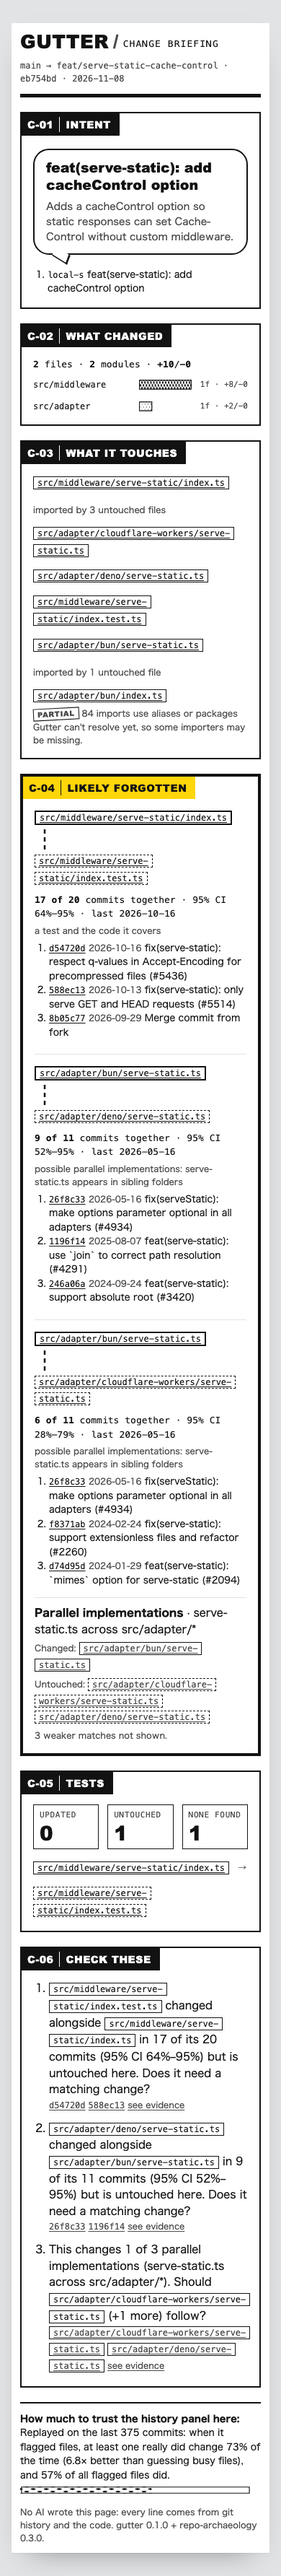
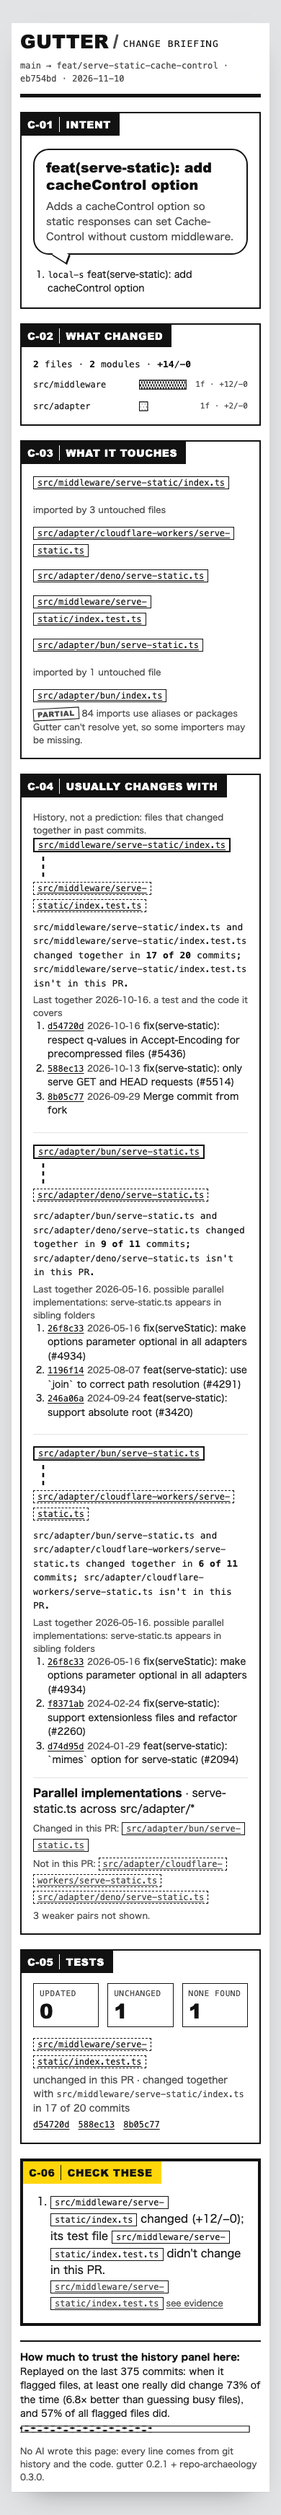
docs(example): regenerate the hono example under the new defaults; GU-29 screenshots
The illustrative edit grows from +10 to +14 lines so serve-static/index.ts
passes the minChurnForTestQuestion gate (10) and the page is brief: the test
row and "Usually changes with" context are visible. Same pinned SHA and
repo-archaeology 0.3.0, so the history (17 of 20, 9 of 11, 6 of 11) is unchanged.
docs/images/gu29/: quiet/brief/full pages at 1280 and 390 px, and local
renders of the Markdown comment.

Changed region(s): [[0.0615, 0.0, 0.9231, 0.9917]]

diff --git a/docs/example/gutter.html b/docs/example/gutter.html
@@ -77,8 +77,8 @@ a:focus-visible,.panel:focus-visible{outline:var(--f-stroke) solid var(--f-marke
 .panel{grid-column:span 12;position:relative;background:var(--f-panel);border:var(--f-stroke) solid var(--f-rule);padding:0 16px 16px;min-width:0}
 .page.quiet .panel{grid-column:span 12}
 @media (min-width:860px){
-.page:not(.quiet){grid-template-areas:"intent intent intent intent intent intent intent changed changed changed changed changed" "touches touches touches touches touches forgotten forgotten forgotten forgotten forgotten forgotten forgotten" "tests tests tests tests tests forgotten forgotten forgotten forgotten forgotten forgotten forgotten" "checks checks checks checks checks checks checks checks checks checks checks checks"}
-.area-intent{grid-area:intent}.area-changed{grid-area:changed}.area-touches{grid-area:touches}.area-forgotten{grid-area:forgotten}.area-tests{grid-area:tests}.area-checks{grid-area:checks}
+.page:not(.quiet){grid-template-areas:"intent intent intent intent intent intent intent changed changed changed changed changed" "touches touches touches touches touches history history history history history history history" "tests tests tests tests tests history history history history history history history" "checks checks checks checks checks checks checks checks checks checks checks checks"}
+.area-intent{grid-area:intent}.area-changed{grid-area:changed}.area-touches{grid-area:touches}.area-history{grid-area:history}.area-tests{grid-area:tests}.area-checks{grid-area:checks}
 .page.quiet .area-intent{grid-column:span 7}.page.quiet .area-changed{grid-column:span 5}
 }
 .cap{display:inline-flex;align-items:center;margin:0 0 14px -16px;padding:5px 12px 5px 0;background:var(--f-ink);color:var(--f-sheet);font-family:var(--font-f-display);font-size:14px;font-weight:400;letter-spacing:.04em;text-transform:uppercase}
@@ -107,6 +107,9 @@ a:focus-visible,.panel:focus-visible{outline:var(--f-stroke) solid var(--f-marke
 .deps{list-style:none;margin:0;padding:0;display:grid;gap:var(--f-gutter-pair)}
 .deps li{display:flex;flex-wrap:wrap;align-items:baseline;gap:var(--f-gutter-pair)}
 .importers{display:inline-flex;flex-wrap:wrap;gap:var(--f-gutter-pair)}
+.ref{font-family:var(--font-f-mono);font-size:12px;overflow-wrap:anywhere}
+.deps .test-row{flex-direction:column;align-items:flex-start;gap:0}
+.fact{font-size:13px;color:var(--f-ink-2);margin:4px 0}
 .stamp{font-family:var(--font-f-display);font-size:10px;letter-spacing:.06em;text-transform:uppercase;border:1.5px solid var(--f-rule);padding:0 5px;transform:rotate(-3deg);display:inline-block}
 .small{font-size:12px;color:var(--f-ink-2);margin:4px 0 0}
 .quiet-line{margin:0;color:var(--f-ink-2)}
@@ -145,7 +148,7 @@ a:focus-visible,.panel:focus-visible{outline:var(--f-stroke) solid var(--f-marke
 <article class="sheet">
   <header class="masthead">
     <p class="wordmark">GUTTER<span class="slash">/</span><span class="kicker">change briefing</span></p>
-    <p class="issue">main → feat/serve-static-cache-control · eb754bd · 2026-11-08</p>
+    <p class="issue">main → feat/serve-static-cache-control · eb754bd · 2026-11-10</p>
   </header>
   
   <div class="page">
@@ -158,11 +161,11 @@ a:focus-visible,.panel:focus-visible{outline:var(--f-stroke) solid var(--f-marke
 <section class="panel area-changed" data-cut="C-02" aria-labelledby="p2">
   <h2 id="p2" class="cap"><span class="num">C-02</span> What changed</h2>
   
-  <p class="stat"><b>2</b> files · <b>2</b> modules · <b>+10</b>/<b>−0</b></p>
+  <p class="stat"><b>2</b> files · <b>2</b> modules · <b>+14</b>/<b>−0</b></p>
   <ul class="modules" aria-label="Churn by module, darker tone means more lines changed"><li><span class="mod">src/middleware</span>
       <svg class="bar" viewBox="0 0 100 10" preserveAspectRatio="none" aria-hidden="true"><rect x="0" y="0" width="100" height="10" fill="url(#tone-3)"/><rect x="0.6" y="0.6" width="98.8" height="8.8" class="bar-ink"/></svg>
-      <span class="num-sm">1f · +8/−0</span></li><li><span class="mod">src/adapter</span>
-      <svg class="bar" viewBox="0 0 100 10" preserveAspectRatio="none" aria-hidden="true"><rect x="0" y="0" width="25" height="10" fill="url(#tone-1)"/><rect x="0.6" y="0.6" width="23.8" height="8.8" class="bar-ink"/></svg>
+      <span class="num-sm">1f · +12/−0</span></li><li><span class="mod">src/adapter</span>
+      <svg class="bar" viewBox="0 0 100 10" preserveAspectRatio="none" aria-hidden="true"><rect x="0" y="0" width="17" height="10" fill="url(#tone-1)"/><rect x="0.6" y="0.6" width="15.8" height="8.8" class="bar-ink"/></svg>
       <span class="num-sm">1f · +2/−0</span></li></ul>
   
 </section>
@@ -174,57 +177,57 @@ a:focus-visible,.panel:focus-visible{outline:var(--f-stroke) solid var(--f-marke
         <span class="small">imported by 1 untouched file</span>
         <span class="importers"><a href="https://github.com/honojs/hono/blob/eb754bd5ef22c63f1634a4c374a86be086f85710/src/adapter/bun/index.ts"><code class="path">src/adapter/bun/index.ts</code></a></span></li></ul><p class="small"><span class="stamp">partial</span> 84 imports use aliases or packages Gutter can&#39;t resolve yet, so some importers may be missing.</p>
 </section>
-<section class="panel area-forgotten hero" data-cut="C-04" aria-labelledby="p4">
-  <h2 id="p4" class="cap marker"><span class="num">C-04</span> Likely forgotten</h2>
-  <ul class="wires"><li class="wire-row" id="forgotten:0">
+<section class="panel area-history" data-cut="C-04" aria-labelledby="p4">
+  <h2 id="p4" class="cap"><span class="num">C-04</span> Usually changes with</h2>
+  <p class="small">History, not a prediction: files that changed together in past commits.</p><ul class="wires"><li class="wire-row" id="history-0">
       <div class="wire">
         <a href="https://github.com/honojs/hono/blob/eb754bd5ef22c63f1634a4c374a86be086f85710/src/middleware/serve-static/index.ts"><code class="path solid">src/middleware/serve-static/index.ts</code></a>
         <svg class="ghost" viewBox="0 0 100 12" preserveAspectRatio="none" aria-hidden="true"><line x1="0" y1="6" x2="100" y2="6"/></svg>
         <a href="https://github.com/honojs/hono/blob/eb754bd5ef22c63f1634a4c374a86be086f85710/src/middleware/serve-static/index.test.ts"><code class="path dashed">src/middleware/serve-static/index.test.ts</code></a>
       </div>
-      <p class="evidence-line"><b>17 of 20</b> commits together · 95% CI 64%–95% · last 2026-10-16</p>
-      <p class="small why">a test and the code it covers</p>
+      <p class="evidence-line"><code class="ref">src/middleware/serve-static/index.ts</code> and <code class="ref">src/middleware/serve-static/index.test.ts</code> changed together in <b>17 of 20</b> commits; <code class="ref">src/middleware/serve-static/index.test.ts</code> isn't in this PR.</p>
+      <p class="small">Last together 2026-10-16. a test and the code it covers</p>
       <ol class="receipts" aria-label="Commits where these files changed together"><li><a class="sha" href="https://github.com/honojs/hono/commit/d54720da80134a180f5fe2dd98a7676cfc8f08b4">d54720d</a> <span class="small">2026-10-16</span> fix(serve-static): respect q-values in Accept-Encoding for precompressed files (#5436)</li><li><a class="sha" href="https://github.com/honojs/hono/commit/588ec13fa68ea44fed1b5e1b503341db2bf09d70">588ec13</a> <span class="small">2026-10-13</span> fix(serve-static): only serve GET and HEAD requests (#5514)</li><li><a class="sha" href="https://github.com/honojs/hono/commit/8b05c774ef1555c70f5ba5e2991b7e77cc3635cc">8b05c77</a> <span class="small">2026-09-29</span> Merge commit from fork</li></ol>
-    </li><li class="wire-row" id="forgotten:1">
+    </li><li class="wire-row" id="history-1">
       <div class="wire">
         <a href="https://github.com/honojs/hono/blob/eb754bd5ef22c63f1634a4c374a86be086f85710/src/adapter/bun/serve-static.ts"><code class="path solid">src/adapter/bun/serve-static.ts</code></a>
         <svg class="ghost" viewBox="0 0 100 12" preserveAspectRatio="none" aria-hidden="true"><line x1="0" y1="6" x2="100" y2="6"/></svg>
         <a href="https://github.com/honojs/hono/blob/eb754bd5ef22c63f1634a4c374a86be086f85710/src/adapter/deno/serve-static.ts"><code class="path dashed">src/adapter/deno/serve-static.ts</code></a>
       </div>
-      <p class="evidence-line"><b>9 of 11</b> commits together · 95% CI 52%–95% · last 2026-05-16</p>
-      <p class="small why">possible parallel implementations: serve-static.ts appears in sibling folders</p>
+      <p class="evidence-line"><code class="ref">src/adapter/bun/serve-static.ts</code> and <code class="ref">src/adapter/deno/serve-static.ts</code> changed together in <b>9 of 11</b> commits; <code class="ref">src/adapter/deno/serve-static.ts</code> isn't in this PR.</p>
+      <p class="small">Last together 2026-05-16. possible parallel implementations: serve-static.ts appears in sibling folders</p>
       <ol class="receipts" aria-label="Commits where these files changed together"><li><a class="sha" href="https://github.com/honojs/hono/commit/26f8c33f23e6151873d165107f2dbcadf1204d15">26f8c33</a> <span class="small">2026-05-16</span> fix(serveStatic): make options parameter optional in all adapters (#4934)</li><li><a class="sha" href="https://github.com/honojs/hono/commit/1196f14b94e589e2ac44fa7f1c8785d70c1cf83e">1196f14</a> <span class="small">2025-08-07</span> feat(serve-static): use `join` to correct path resolution (#4291)</li><li><a class="sha" href="https://github.com/honojs/hono/commit/246a06aa1d35aa206dcf11186b3aa90badb2de72">246a06a</a> <span class="small">2024-09-24</span> feat(serve-static): support absolute root (#3420)</li></ol>
-    </li><li class="wire-row" id="forgotten:2">
+    </li><li class="wire-row" id="history-2">
       <div class="wire">
         <a href="https://github.com/honojs/hono/blob/eb754bd5ef22c63f1634a4c374a86be086f85710/src/adapter/bun/serve-static.ts"><code class="path solid">src/adapter/bun/serve-static.ts</code></a>
         <svg class="ghost" viewBox="0 0 100 12" preserveAspectRatio="none" aria-hidden="true"><line x1="0" y1="6" x2="100" y2="6"/></svg>
         <a href="https://github.com/honojs/hono/blob/eb754bd5ef22c63f1634a4c374a86be086f85710/src/adapter/cloudflare-workers/serve-static.ts"><code class="path dashed">src/adapter/cloudflare-workers/serve-static.ts</code></a>
       </div>
-      <p class="evidence-line"><b>6 of 11</b> commits together · 95% CI 28%–79% · last 2026-05-16</p>
-      <p class="small why">possible parallel implementations: serve-static.ts appears in sibling folders</p>
+      <p class="evidence-line"><code class="ref">src/adapter/bun/serve-static.ts</code> and <code class="ref">src/adapter/cloudflare-workers/serve-static.ts</code> changed together in <b>6 of 11</b> commits; <code class="ref">src/adapter/cloudflare-workers/serve-static.ts</code> isn't in this PR.</p>
+      <p class="small">Last together 2026-05-16. possible parallel implementations: serve-static.ts appears in sibling folders</p>
       <ol class="receipts" aria-label="Commits where these files changed together"><li><a class="sha" href="https://github.com/honojs/hono/commit/26f8c33f23e6151873d165107f2dbcadf1204d15">26f8c33</a> <span class="small">2026-05-16</span> fix(serveStatic): make options parameter optional in all adapters (#4934)</li><li><a class="sha" href="https://github.com/honojs/hono/commit/f8371ab356f79fcf762c66aa372448a8018bcfc7">f8371ab</a> <span class="small">2024-02-24</span> fix(serve-static): support extensionless files and refactor (#2260)</li><li><a class="sha" href="https://github.com/honojs/hono/commit/d74d95d11c8d06ff7588a3a2e899e3843c4a7d1e">d74d95d</a> <span class="small">2024-01-29</span> feat(serve-static): `mimes` option for serve-static (#2094)</li></ol>
     </li></ul><div class="family" id="family:0"><p><b>Parallel implementations</b> · serve-static.ts across src/adapter/*</p>
-     <p class="small">Changed: <a href="https://github.com/honojs/hono/blob/eb754bd5ef22c63f1634a4c374a86be086f85710/src/adapter/bun/serve-static.ts"><code class="path">src/adapter/bun/serve-static.ts</code></a></p>
-     <p class="small">Untouched: <a href="https://github.com/honojs/hono/blob/eb754bd5ef22c63f1634a4c374a86be086f85710/src/adapter/cloudflare-workers/serve-static.ts"><code class="path dashed">src/adapter/cloudflare-workers/serve-static.ts</code></a> <a href="https://github.com/honojs/hono/blob/eb754bd5ef22c63f1634a4c374a86be086f85710/src/adapter/deno/serve-static.ts"><code class="path dashed">src/adapter/deno/serve-static.ts</code></a></p></div><p class="small">3 weaker matches not shown.</p>
+     <p class="small">Changed in this PR: <a href="https://github.com/honojs/hono/blob/eb754bd5ef22c63f1634a4c374a86be086f85710/src/adapter/bun/serve-static.ts"><code class="path">src/adapter/bun/serve-static.ts</code></a></p>
+     <p class="small">Not in this PR: <a href="https://github.com/honojs/hono/blob/eb754bd5ef22c63f1634a4c374a86be086f85710/src/adapter/cloudflare-workers/serve-static.ts"><code class="path dashed">src/adapter/cloudflare-workers/serve-static.ts</code></a> <a href="https://github.com/honojs/hono/blob/eb754bd5ef22c63f1634a4c374a86be086f85710/src/adapter/deno/serve-static.ts"><code class="path dashed">src/adapter/deno/serve-static.ts</code></a></p></div><p class="small">3 weaker pairs not shown.</p>
 </section>
 <section class="panel area-tests" data-cut="C-05" aria-labelledby="p5">
   <h2 id="p5" class="cap"><span class="num">C-05</span> Tests</h2>
   
   <dl class="metrics">
     <div><dt>updated</dt><dd>0</dd></div>
-    <div><dt>untouched</dt><dd>1</dd></div>
+    <div><dt>unchanged</dt><dd>1</dd></div>
     <div><dt>none found</dt><dd>1</dd></div>
   </dl>
-  <ul class="deps"><li id="tests:src/middleware/serve-static/index.ts"><a href="https://github.com/honojs/hono/blob/eb754bd5ef22c63f1634a4c374a86be086f85710/src/middleware/serve-static/index.ts"><code class="path">src/middleware/serve-static/index.ts</code></a> <span class="small">→</span> <a href="https://github.com/honojs/hono/blob/eb754bd5ef22c63f1634a4c374a86be086f85710/src/middleware/serve-static/index.test.ts"><code class="path dashed">src/middleware/serve-static/index.test.ts</code></a></li></ul>
+  <ul class="deps"><li class="test-row" id="tests:src/middleware/serve-static/index.ts"><a href="https://github.com/honojs/hono/blob/eb754bd5ef22c63f1634a4c374a86be086f85710/src/middleware/serve-static/index.test.ts"><code class="path dashed">src/middleware/serve-static/index.test.ts</code></a><span class="fact">unchanged in this PR · changed together with <code class="ref">src/middleware/serve-static/index.ts</code> in 17 of 20 commits</span><span class="importers"><a class="sha" href="https://github.com/honojs/hono/commit/d54720da80134a180f5fe2dd98a7676cfc8f08b4">d54720d</a> <a class="sha" href="https://github.com/honojs/hono/commit/588ec13fa68ea44fed1b5e1b503341db2bf09d70">588ec13</a> <a class="sha" href="https://github.com/honojs/hono/commit/8b05c774ef1555c70f5ba5e2991b7e77cc3635cc">8b05c77</a></span></li></ul>
 </section>
-<section class="panel area-checks" data-cut="C-06" aria-labelledby="p6">
-  <h2 id="p6" class="cap"><span class="num">C-06</span> Check these</h2>
-  <ol class="checks"><li><p><code class="path">src/middleware/serve-static/index.test.ts</code> changed alongside <code class="path">src/middleware/serve-static/index.ts</code> in 17 of its 20 commits (95% CI 64%–95%) but is untouched here. Does it need a matching change?</p><p class="small"><a class="sha" href="https://github.com/honojs/hono/commit/d54720da80134a180f5fe2dd98a7676cfc8f08b4">d54720d</a> <a class="sha" href="https://github.com/honojs/hono/commit/588ec13fa68ea44fed1b5e1b503341db2bf09d70">588ec13</a> <a class="jump" href="#forgotten:0">see evidence</a></p></li><li><p><code class="path">src/adapter/deno/serve-static.ts</code> changed alongside <code class="path">src/adapter/bun/serve-static.ts</code> in 9 of its 11 commits (95% CI 52%–95%) but is untouched here. Does it need a matching change?</p><p class="small"><a class="sha" href="https://github.com/honojs/hono/commit/26f8c33f23e6151873d165107f2dbcadf1204d15">26f8c33</a> <a class="sha" href="https://github.com/honojs/hono/commit/1196f14b94e589e2ac44fa7f1c8785d70c1cf83e">1196f14</a> <a class="jump" href="#forgotten:1">see evidence</a></p></li><li><p>This changes 1 of 3 parallel implementations (serve-static.ts across src/adapter/*). Should <code class="path">src/adapter/cloudflare-workers/serve-static.ts</code> (+1 more) follow?</p><p class="small"><a href="https://github.com/honojs/hono/blob/eb754bd5ef22c63f1634a4c374a86be086f85710/src/adapter/cloudflare-workers/serve-static.ts"><code class="path">src/adapter/cloudflare-workers/serve-static.ts</code></a> <a href="https://github.com/honojs/hono/blob/eb754bd5ef22c63f1634a4c374a86be086f85710/src/adapter/deno/serve-static.ts"><code class="path">src/adapter/deno/serve-static.ts</code></a> <a class="jump" href="#family:0">see evidence</a></p></li></ol>
+<section class="panel area-checks hero" data-cut="C-06" aria-labelledby="p6">
+  <h2 id="p6" class="cap marker"><span class="num">C-06</span> Check these</h2>
+  <ol class="checks"><li><p><code class="path">src/middleware/serve-static/index.ts</code> changed (+12/−0); its test file <code class="path">src/middleware/serve-static/index.test.ts</code> didn&#39;t change in this PR.</p><p class="small"><a href="https://github.com/honojs/hono/blob/eb754bd5ef22c63f1634a4c374a86be086f85710/src/middleware/serve-static/index.test.ts"><code class="path">src/middleware/serve-static/index.test.ts</code></a> <a class="jump" href="#tests:src/middleware/serve-static/index.ts">see evidence</a></p></li></ol>
 </section>
   </div>
   <footer class="colophon">
     <div class="cal"><p><b>How much to trust the history panel here:</b> Replayed on the last 375 commits: when it flagged files, at least one really did change 73% of the time (6.8× better than guessing busy files), and 57% of all flagged files did.</p><svg class="gauge" viewBox="0 0 100 8" preserveAspectRatio="none" role="img" aria-label="Measured precision 57%"><rect x="0" y="0" width="57" height="8" fill="url(#tone-2)"/><rect x="0.6" y="0.6" width="98.8" height="6.8" class="bar-ink"/></svg></div>
-    <p class="small">No AI wrote this page: every line comes from git history and the code. gutter 0.1.0 + repo-archaeology 0.3.0.</p>
+    <p class="small">No AI wrote this page: every line comes from git history and the code. gutter 0.2.1 + repo-archaeology 0.3.0.</p>
   </footer>
 </article>
 </main>

diff --git a/docs/example/brief.md b/docs/example/brief.md
@@ -1,23 +1,20 @@
 <!-- gutter:brief -->
 ### Gutter · change briefing
 
-**feat\(serve\-static\): add cacheControl option**: 2 files across 2 modules (+10/−0)
+**feat\(serve\-static\): add cacheControl option**: 2 files across 2 modules (+14/−0)
 
 **Worth a look**
 
-1. `src/middleware/serve-static/index.test.ts` changed alongside `src/middleware/serve-static/index.ts` in 17 of its 20 commits \(95% CI 64%–95%\) but is untouched here\. Does it need a matching change?<br><sub>receipts: [d54720d](https://github.com/honojs/hono/commit/d54720da80134a180f5fe2dd98a7676cfc8f08b4) · [588ec13](https://github.com/honojs/hono/commit/588ec13fa68ea44fed1b5e1b503341db2bf09d70)</sub>
-2. `src/adapter/deno/serve-static.ts` changed alongside `src/adapter/bun/serve-static.ts` in 9 of its 11 commits \(95% CI 52%–95%\) but is untouched here\. Does it need a matching change?<br><sub>receipts: [26f8c33](https://github.com/honojs/hono/commit/26f8c33f23e6151873d165107f2dbcadf1204d15) · [1196f14](https://github.com/honojs/hono/commit/1196f14b94e589e2ac44fa7f1c8785d70c1cf83e)</sub>
-3. This changes 1 of 3 parallel implementations \(serve\-static\.ts across src/adapter/\*\)\. Should `src/adapter/cloudflare-workers/serve-static.ts` \(\+1 more\) follow?<br><sub>receipts: [`src/adapter/cloudflare-workers/serve-static.ts`](https://github.com/honojs/hono/blob/eb754bd5ef22c63f1634a4c374a86be086f85710/src/adapter/cloudflare-workers/serve-static.ts) · [`src/adapter/deno/serve-static.ts`](https://github.com/honojs/hono/blob/eb754bd5ef22c63f1634a4c374a86be086f85710/src/adapter/deno/serve-static.ts)</sub>
+1. `src/middleware/serve-static/index.ts` changed \(\+12/−0\); its test file `src/middleware/serve-static/index.test.ts` didn't change in this PR\.<br><sub>receipts: [`src/middleware/serve-static/index.test.ts`](https://github.com/honojs/hono/blob/eb754bd5ef22c63f1634a4c374a86be086f85710/src/middleware/serve-static/index.test.ts)</sub>
 
-<details open><summary><b>Likely forgotten</b> · 3 files that usually change with this PR</summary>
+<details><summary><b>Usually changes with</b> (history, not a prediction) · 4 pairs</summary>
 
-| Untouched file | Usually changes with | Together | 95% CI | Last together | Receipts |
-|---|---|---|---|---|---|
-| [`src/middleware/serve-static/index.test.ts`](https://github.com/honojs/hono/blob/eb754bd5ef22c63f1634a4c374a86be086f85710/src/middleware/serve-static/index.test.ts) | [`src/middleware/serve-static/index.ts`](https://github.com/honojs/hono/blob/eb754bd5ef22c63f1634a4c374a86be086f85710/src/middleware/serve-static/index.ts) | 17/20 | 64%–95% | 2026-10-16 | [d54720d](https://github.com/honojs/hono/commit/d54720da80134a180f5fe2dd98a7676cfc8f08b4) [588ec13](https://github.com/honojs/hono/commit/588ec13fa68ea44fed1b5e1b503341db2bf09d70) [8b05c77](https://github.com/honojs/hono/commit/8b05c774ef1555c70f5ba5e2991b7e77cc3635cc) |
-| [`src/adapter/deno/serve-static.ts`](https://github.com/honojs/hono/blob/eb754bd5ef22c63f1634a4c374a86be086f85710/src/adapter/deno/serve-static.ts) | [`src/adapter/bun/serve-static.ts`](https://github.com/honojs/hono/blob/eb754bd5ef22c63f1634a4c374a86be086f85710/src/adapter/bun/serve-static.ts) | 9/11 | 52%–95% | 2026-05-16 | [26f8c33](https://github.com/honojs/hono/commit/26f8c33f23e6151873d165107f2dbcadf1204d15) [1196f14](https://github.com/honojs/hono/commit/1196f14b94e589e2ac44fa7f1c8785d70c1cf83e) [246a06a](https://github.com/honojs/hono/commit/246a06aa1d35aa206dcf11186b3aa90badb2de72) |
-| [`src/adapter/cloudflare-workers/serve-static.ts`](https://github.com/honojs/hono/blob/eb754bd5ef22c63f1634a4c374a86be086f85710/src/adapter/cloudflare-workers/serve-static.ts) | [`src/adapter/bun/serve-static.ts`](https://github.com/honojs/hono/blob/eb754bd5ef22c63f1634a4c374a86be086f85710/src/adapter/bun/serve-static.ts) | 6/11 | 28%–79% | 2026-05-16 | [26f8c33](https://github.com/honojs/hono/commit/26f8c33f23e6151873d165107f2dbcadf1204d15) [f8371ab](https://github.com/honojs/hono/commit/f8371ab356f79fcf762c66aa372448a8018bcfc7) [d74d95d](https://github.com/honojs/hono/commit/d74d95d11c8d06ff7588a3a2e899e3843c4a7d1e) |
+- [`src/middleware/serve-static/index.ts`](https://github.com/honojs/hono/blob/eb754bd5ef22c63f1634a4c374a86be086f85710/src/middleware/serve-static/index.ts) and [`src/middleware/serve-static/index.test.ts`](https://github.com/honojs/hono/blob/eb754bd5ef22c63f1634a4c374a86be086f85710/src/middleware/serve-static/index.test.ts) changed together in 17 of 20 commits; [`src/middleware/serve-static/index.test.ts`](https://github.com/honojs/hono/blob/eb754bd5ef22c63f1634a4c374a86be086f85710/src/middleware/serve-static/index.test.ts) isn't in this PR · last together 2026\-10\-16<br><sub>receipts: [d54720d](https://github.com/honojs/hono/commit/d54720da80134a180f5fe2dd98a7676cfc8f08b4) [588ec13](https://github.com/honojs/hono/commit/588ec13fa68ea44fed1b5e1b503341db2bf09d70) [8b05c77](https://github.com/honojs/hono/commit/8b05c774ef1555c70f5ba5e2991b7e77cc3635cc)</sub>
+- [`src/adapter/bun/serve-static.ts`](https://github.com/honojs/hono/blob/eb754bd5ef22c63f1634a4c374a86be086f85710/src/adapter/bun/serve-static.ts) and [`src/adapter/deno/serve-static.ts`](https://github.com/honojs/hono/blob/eb754bd5ef22c63f1634a4c374a86be086f85710/src/adapter/deno/serve-static.ts) changed together in 9 of 11 commits; [`src/adapter/deno/serve-static.ts`](https://github.com/honojs/hono/blob/eb754bd5ef22c63f1634a4c374a86be086f85710/src/adapter/deno/serve-static.ts) isn't in this PR · last together 2026\-05\-16<br><sub>receipts: [26f8c33](https://github.com/honojs/hono/commit/26f8c33f23e6151873d165107f2dbcadf1204d15) [1196f14](https://github.com/honojs/hono/commit/1196f14b94e589e2ac44fa7f1c8785d70c1cf83e) [246a06a](https://github.com/honojs/hono/commit/246a06aa1d35aa206dcf11186b3aa90badb2de72)</sub>
+- [`src/adapter/bun/serve-static.ts`](https://github.com/honojs/hono/blob/eb754bd5ef22c63f1634a4c374a86be086f85710/src/adapter/bun/serve-static.ts) and [`src/adapter/cloudflare-workers/serve-static.ts`](https://github.com/honojs/hono/blob/eb754bd5ef22c63f1634a4c374a86be086f85710/src/adapter/cloudflare-workers/serve-static.ts) changed together in 6 of 11 commits; [`src/adapter/cloudflare-workers/serve-static.ts`](https://github.com/honojs/hono/blob/eb754bd5ef22c63f1634a4c374a86be086f85710/src/adapter/cloudflare-workers/serve-static.ts) isn't in this PR · last together 2026\-05\-16<br><sub>receipts: [26f8c33](https://github.com/honojs/hono/commit/26f8c33f23e6151873d165107f2dbcadf1204d15) [f8371ab](https://github.com/honojs/hono/commit/f8371ab356f79fcf762c66aa372448a8018bcfc7) [d74d95d](https://github.com/honojs/hono/commit/d74d95d11c8d06ff7588a3a2e899e3843c4a7d1e)</sub>
+- Parallel implementations (serve\-static\.ts across src/adapter/\*): this PR changes 1 of 3; not in this PR: [`src/adapter/cloudflare-workers/serve-static.ts`](https://github.com/honojs/hono/blob/eb754bd5ef22c63f1634a4c374a86be086f85710/src/adapter/cloudflare-workers/serve-static.ts), [`src/adapter/deno/serve-static.ts`](https://github.com/honojs/hono/blob/eb754bd5ef22c63f1634a4c374a86be086f85710/src/adapter/deno/serve-static.ts)
 
-<sub>3 weaker matches not shown.</sub>
+<sub>3 weaker pairs not shown.</sub>
 
 </details>
 
@@ -30,9 +27,11 @@
 
 <sub>84 imports use aliases or packages Gutter can't resolve yet, so some importers may be missing.</sub>
 
-<details><summary><b>Tests</b> · 0 updated · 1 untouched · 1 with no test found</summary>
+<details><summary><b>Tests</b> · 0 updated · 1 unchanged · 1 with no test found</summary>
 
-- [`src/middleware/serve-static/index.ts`](https://github.com/honojs/hono/blob/eb754bd5ef22c63f1634a4c374a86be086f85710/src/middleware/serve-static/index.ts) → [`src/middleware/serve-static/index.test.ts`](https://github.com/honojs/hono/blob/eb754bd5ef22c63f1634a4c374a86be086f85710/src/middleware/serve-static/index.test.ts) not changed
+- [`src/middleware/serve-static/index.test.ts`](https://github.com/honojs/hono/blob/eb754bd5ef22c63f1634a4c374a86be086f85710/src/middleware/serve-static/index.test.ts) — unchanged in this PR · changed together with [`src/middleware/serve-static/index.ts`](https://github.com/honojs/hono/blob/eb754bd5ef22c63f1634a4c374a86be086f85710/src/middleware/serve-static/index.ts) in 17 of 20 commits<br><sub>receipts: [d54720d](https://github.com/honojs/hono/commit/d54720da80134a180f5fe2dd98a7676cfc8f08b4) [588ec13](https://github.com/honojs/hono/commit/588ec13fa68ea44fed1b5e1b503341db2bf09d70) [8b05c77](https://github.com/honojs/hono/commit/8b05c774ef1555c70f5ba5e2991b7e77cc3635cc)</sub>
+
+<sub>Test rows are facts about this PR and past commits, not a request to change anything\.</sub>
 
 </details>
 
@@ -40,9 +39,9 @@
 
 | Module | Files | +/− |
 |---|---|---|
-| `src/middleware` | 1 | +8/−0 |
+| `src/middleware` | 1 | +12/−0 |
 | `src/adapter` | 1 | +2/−0 |
 
 </details>
 
-<sub>Replayed on the last 375 commits: when it flagged files, at least one really did change 73% of the time \(6\.8× better than guessing busy files\), and 57% of all flagged files did\. · No AI wrote this: every line comes from git history and the code · gutter 0.1.0 + repo-archaeology 0.3.0</sub>
+<sub>Replayed on the last 375 commits: when it flagged files, at least one really did change 73% of the time \(6\.8× better than guessing busy files\), and 57% of all flagged files did\. · No AI wrote this: every line comes from git history and the code · gutter 0.2.1 + repo-archaeology 0.3.0</sub>
